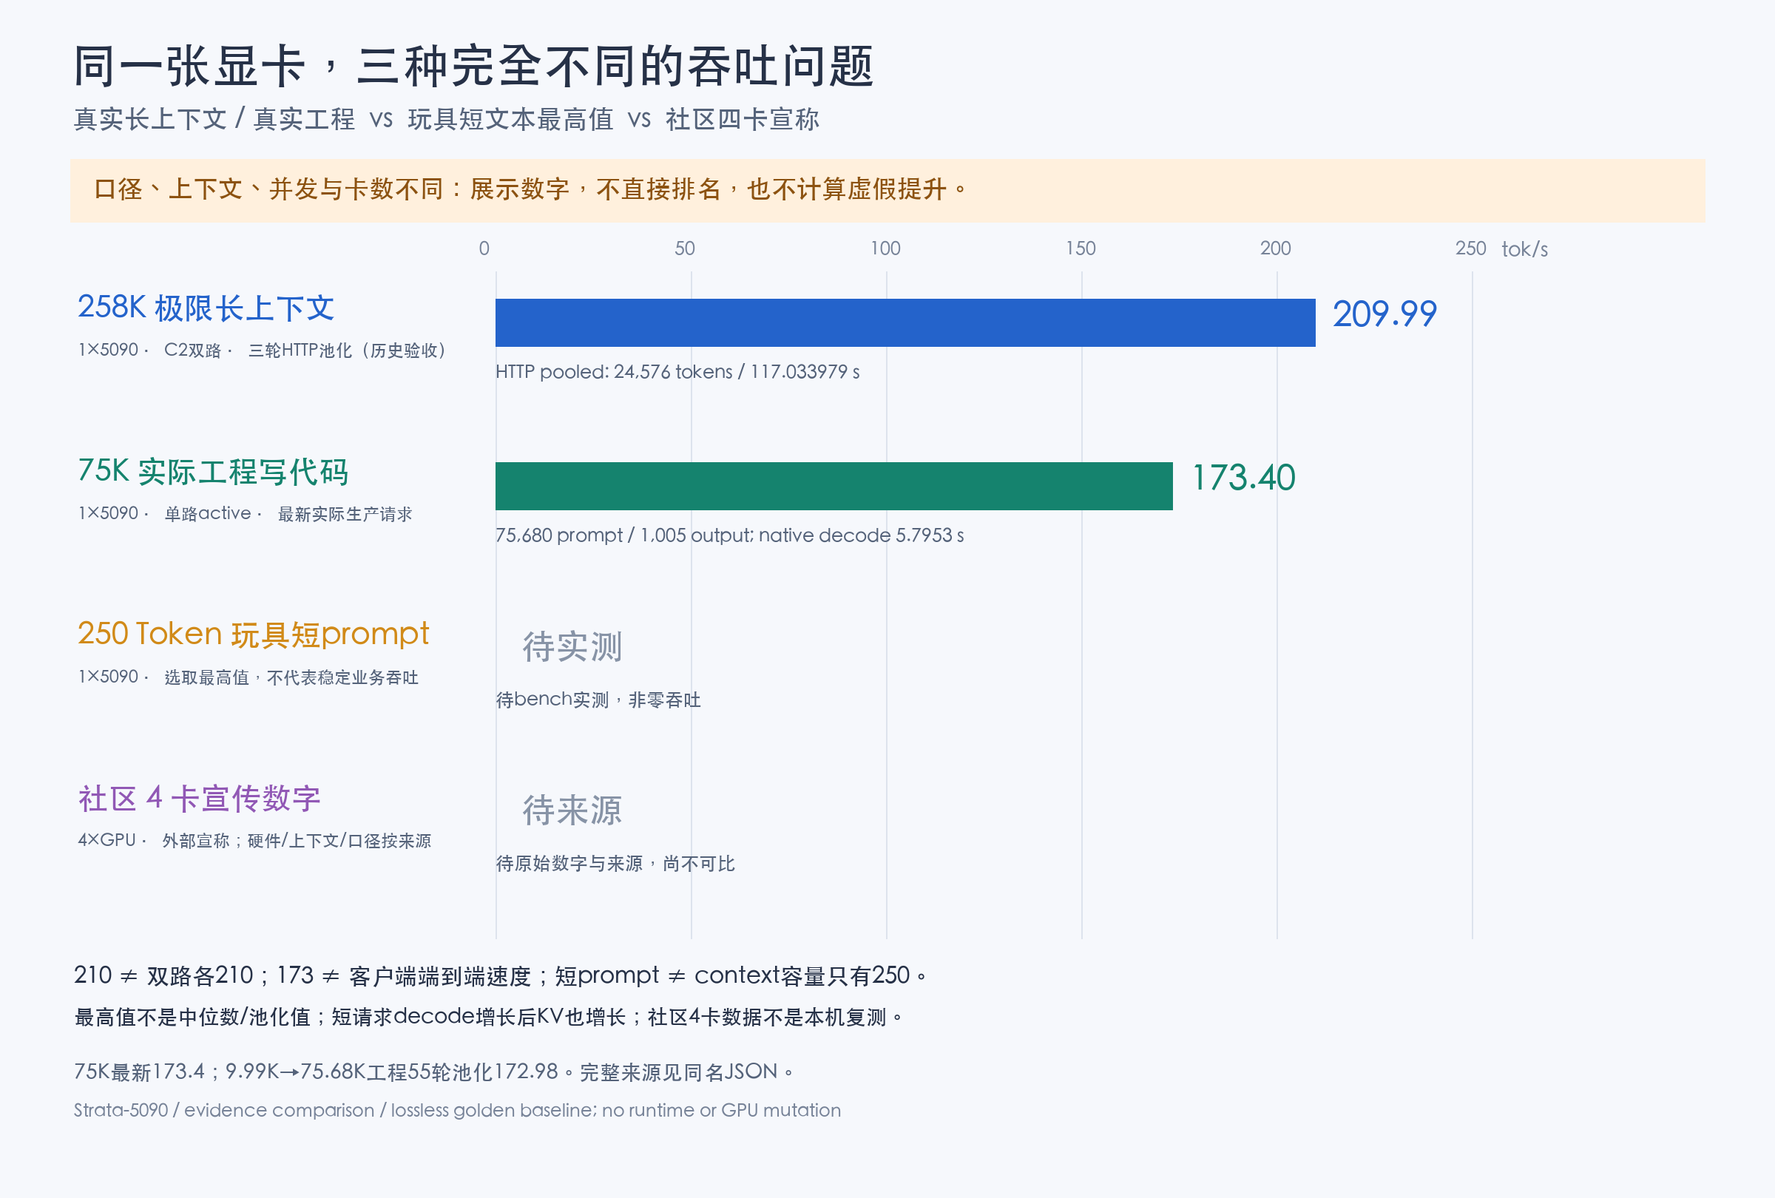
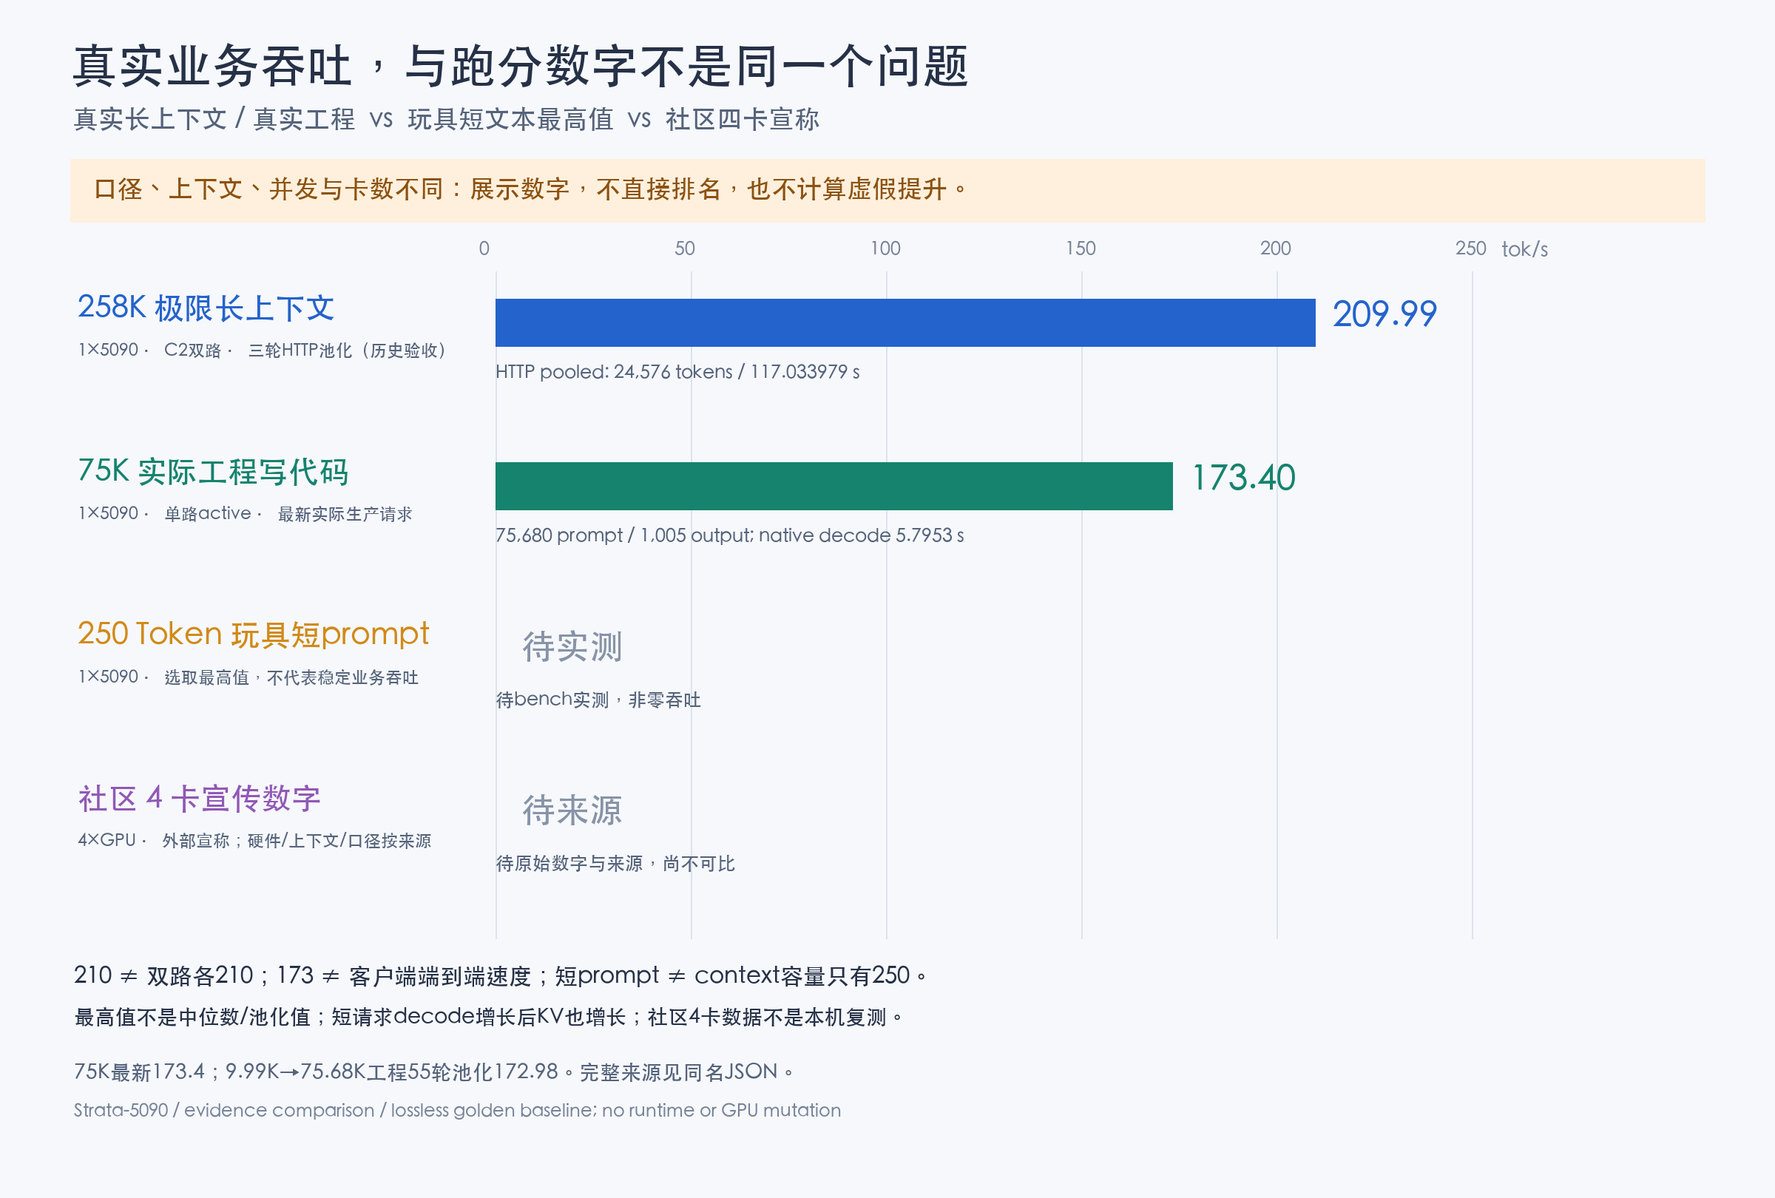
tools: render measured TUI snapshots and first reported short-context comparison

Changed region(s): [[0.0312, 0.0309, 0.5625, 0.0926]]

diff --git a/tools/strata_monitor_live.py b/tools/strata_monitor_live.py
@@ -50,6 +50,26 @@ def number(value, decimals=0):
     return "n/a" if value is None else format(value, f",.{decimals}f")
 
 
+def snapshot(data, url):
+    """Public display fields only; never archive arbitrary API extensions or request text."""
+    keys = {
+        "engine": ("model", "max_context"),
+        "live": ("state", "prompt_read", "prompt_total", "generated", "max_tokens", "tok_s", "tok_s_mean",
+                 "prefill_tok_s_mean", "parallel", "running", "queued", "admitting", "tok_s_window_s"),
+        "hardware": ("gpu_util", "gpu_power", "gpu_temp", "gpu_mem_used", "gpu_mem_total", "gpu_pcie_gen",
+                     "gpu_pcie_width", "cpu", "ram_used", "ram_total"),
+        "hardware_static": ("gpu_name", "gpu_count"),
+    }
+    result = {name: {key: data.get(name, {}).get(key) for key in fields} for name, fields in keys.items()}
+    result["live"]["slots"] = [{k: row.get(k) for k in ("slot", "state", "prompt_tokens", "generated", "elapsed_s", "tok_s")}
+                                for row in data.get("live", {}).get("slots", [])]
+    result["requests"] = [{k: row.get(k) for k in ("prompt_tokens", "reused", "output_tokens", "decode_tok_s", "finish")}
+                          for row in data.get("requests", [])[:5]]
+    result["source_endpoint"] = endpoint(url)
+    result["captured_at"] = time.strftime("%Y-%m-%dT%H:%M:%S%z")
+    return result
+
+
 def render(data, url):
     live, engine = data.get("live", {}), data.get("engine", {})
     hw, recent = data.get("hardware", {}), data.get("requests", [])
@@ -65,7 +85,8 @@ def render(data, url):
                    f"Request mean: {number(live.get('tok_s_mean'), 1)} tok/s (API)",
                    f"Prefill: {number(live.get('prefill_tok_s_mean'), 1)} tok/s (fresh input)",
                    f"Last native decode: {number(recent[0].get('decode_tok_s'), 1) if recent else 'n/a'} tok/s"]
-    lines = [f"STRATA / MONITOR LIVE {safe(url)}  |  {time.strftime('%H:%M:%S')}",
+    stamp = data.get("captured_at") or time.strftime('%H:%M:%S')
+    lines = [f"STRATA / MONITOR LIVE {safe(url)}  |  {safe(stamp)}",
              "READ-ONLY /metrics | fork viewer, NOT the unidentified screenshot CLI", "─" * 112,
              "SERVING".ljust(54) + "PERFORMANCE"]
     for left, right in zip(serving, performance):
@@ -77,7 +98,12 @@ def render(data, url):
         lines.append(f"  slot {slot.get('slot')}: {safe(slot.get('state'))} | "
                      f"prompt {number(slot.get('prompt_tokens'))} | output {number(slot.get('generated'))} | "
                      f"API mean {number(slot.get('tok_s'), 1)} tok/s")
+    static = data.get("hardware_static", {})
+    generation = hw.get("gpu_pcie_gen")
+    link = {1: 2.5, 2: 5, 3: 8, 4: 16, 5: 32, 6: 64}.get(generation)
     lines += ["─" * 112, "HARDWARE",
+              f"{number(static.get('gpu_count'))} × {safe(static.get('gpu_name', 'GPU name unavailable'))}",
+              f"PCIe link: {number(link, 1)} GT/s ×{number(hw.get('gpu_pcie_width'))} (not GDDR MT/s)",
               f"GPU busy {number(hw.get('gpu_util'), 1)}% | power {number(hw.get('gpu_power'), 1)} W | "
               f"temperature {number(hw.get('gpu_temp'), 1)} °C",
               f"VRAM {number(hw.get('gpu_mem_used', 0) / 2**30, 2) if hw.get('gpu_mem_used') is not None else 'n/a'} / "
@@ -100,7 +126,10 @@ def main(argv=None):
     parser.add_argument("--key-config", type=Path, default=Path.home() / "Projects/Strata/strata-iq3_s.json")
     parser.add_argument("--interval", type=float, default=1.0)
     parser.add_argument("--once", action="store_true", help="one frame, suitable for a log/receipt")
+    parser.add_argument("--snapshot", type=Path, help="with --once: archive public numeric display fields for TUI PNG")
     args = parser.parse_args(argv)
+    if args.snapshot and not args.once:
+        parser.error("--snapshot requires --once; one immutable frame, not an overwritten time series")
     try:
         endpoint(args.url)
         if not math.isfinite(args.interval) or args.interval < 0.2:
@@ -111,7 +140,11 @@ def main(argv=None):
     try:
         while True:
             try:
-                frame = render(fetch(args.url, key), args.url)
+                data = fetch(args.url, key)
+                frame = render(data, args.url)
+                if args.snapshot:
+                    args.snapshot.parent.mkdir(parents=True, exist_ok=True)
+                    args.snapshot.write_text(json.dumps(snapshot(data, args.url), ensure_ascii=False, indent=2)+"\n", encoding="utf-8")
             except urllib.error.HTTPError as error:
                 frame = f"MONITOR UNAVAILABLE: HTTP {error.code}; no stale LIVE data displayed"
             except (OSError, ValueError):

diff --git a/tools/render_tui_report.py b/tools/render_tui_report.py
@@ -1,0 +1,85 @@
+#!/usr/bin/env python3
+"""Render a receipt-backed terminal-style PNG; never manufacture live readings."""
+import argparse
+import hashlib
+import json
+from pathlib import Path
+
+if __package__:
+    from .strata_monitor_live import render
+    from .render_throughput_comparison import positive
+else:
+    from strata_monitor_live import render
+    from render_throughput_comparison import positive
+
+MONO_FONTS = ("/System/Library/Fonts/Menlo.ttc",
+              "/usr/share/fonts/truetype/dejavu/DejaVuSansMono.ttf",
+              "C:/Windows/Fonts/consola.ttf")
+
+
+def draw(snapshot_path, output, font_path=None, peak=None, source=None, basis=None):
+    from PIL import Image, ImageDraw, ImageFont
+    raw = Path(snapshot_path).read_bytes()
+    data = json.loads(raw)
+    if not isinstance(data, dict) or not data.get("captured_at") or not data.get("source_endpoint"):
+        raise ValueError("use an actual monitor --once --snapshot receipt with capture time/endpoint")
+    if peak is not None and (not source or not basis):
+        raise ValueError("peak needs --peak-source and --peak-basis; it is separate from the live snapshot")
+    font_path = font_path or next((p for p in MONO_FONTS if Path(p).is_file()), None)
+    if not font_path:
+        raise ValueError("provide --font pointing at a monospace TrueType font")
+    font = ImageFont.truetype(str(font_path), 27)
+    small = ImageFont.truetype(str(font_path), 21)
+    url = str(data["source_endpoint"]).removesuffix("/metrics")
+    lines = render(data, url).splitlines()
+    width, line_height, top = 2400, 39, 65
+    height = top + line_height * len(lines) + (230 if peak is not None else 145)
+    image = Image.new("RGB", (width, height), "#0d1422")
+    painter = ImageDraw.Draw(image)
+    for i, line in enumerate(lines):
+        color = "#c9d4e6"
+        if i == 0:
+            color = "#6bdded"
+        elif line.startswith(("SERVING", "BATCHING / PARALLEL", "HARDWARE", "REQUESTS", "ACTIVITY")):
+            color = "#83aaff"
+        elif line.startswith("─"):
+            color = "#31425c"
+        elif line.startswith(("READ-ONLY", "Read =", "C2 PP", "GPU busy/power")):
+            color = "#95a4b9"
+        painter.text((65, top+i*line_height), line, font=font, fill=color)
+    bottom = top + line_height * len(lines) + 20
+    if peak is not None:
+        painter.text((65, bottom), f"SEPARATE BENCHMARK PEAK: {peak:.2f} tok/s | {basis}", font=font, fill="#ffcf74")
+        painter.text((65, bottom+43), f"Source: {source}", font=small, fill="#95a4b9")
+        bottom += 86
+    digest = hashlib.sha256(raw).hexdigest()
+    painter.text((65, bottom), "RENDERED MEASURED SNAPSHOT / fork viewer, NOT an original terminal capture", font=small, fill="#95a4b9")
+    painter.text((65, bottom+34), f"Input SHA256: {digest}", font=small, fill="#95a4b9")
+    output = Path(output)
+    output.parent.mkdir(parents=True, exist_ok=True)
+    image.save(output, dpi=(200, 200))
+    output.with_suffix(".json").write_text(json.dumps({"snapshot_sha256": digest, "captured_at": data["captured_at"],
+        "source_endpoint": data["source_endpoint"], "peak_tok_s": peak, "peak_source": source,
+        "peak_basis": basis, "rendered_not_terminal_capture": True}, ensure_ascii=False, indent=2)+"\n", encoding="utf-8")
+    return width, height
+
+
+def main(argv=None):
+    parser = argparse.ArgumentParser(description=__doc__)
+    parser.add_argument("--snapshot", type=Path, required=True)
+    parser.add_argument("--output", type=Path, default=Path("docs/media/5090-tui-measured.png"))
+    parser.add_argument("--font", type=Path)
+    parser.add_argument("--peak-tok-s", type=positive)
+    parser.add_argument("--peak-source")
+    parser.add_argument("--peak-basis")
+    args = parser.parse_args(argv)
+    try:
+        size = draw(args.snapshot, args.output, args.font, args.peak_tok_s, args.peak_source, args.peak_basis)
+    except (ValueError, OSError, ImportError) as error:
+        parser.error(str(error))
+    print(f"{args.output} ({size[0]}×{size[1]})")
+    return 0
+
+
+if __name__ == "__main__":
+    raise SystemExit(main())

diff --git a/tools/test_live_visualization.py b/tools/test_live_visualization.py
@@ -14,6 +14,7 @@ import xml.etree.ElementTree as ET
 
 from tools import render_throughput_comparison as chart
 from tools import strata_monitor_live as monitor
+from tools import render_tui_report as tui
 
 
 class MonitorTests(unittest.TestCase):
@@ -75,6 +76,27 @@ class MonitorTests(unittest.TestCase):
         self.assertIn("MONITOR UNAVAILABLE", output.getvalue())
         self.assertNotIn("fixture-secret", output.getvalue())
         self.assertNotIn("LIVE", output.getvalue().replace("stale LIVE", "stale"))
+
+    def test_snapshot_is_allowlisted_and_keeps_capture_provenance(self):
+        data = {"live": {"prompt_read": 250, "prompt_total": 400, "api_key": "do-not-save",
+                         "slots": [{"slot": 1, "prompt": "private-content", "state": "reading"}]},
+                "requests": [{"output": "private-output", "output_tokens": 50}],
+                "api_key": "do-not-save", "hardware": {"gpu_pcie_gen": 5, "gpu_pcie_width": 16},
+                "hardware_static": {"gpu_count": 1, "gpu_name": "NVIDIA RTX 5090"}}
+        saved = monitor.snapshot(data, "http://localhost:8080")
+        self.assertNotIn("do-not-save", json.dumps(saved))
+        self.assertNotIn("private-", json.dumps(saved))
+        self.assertEqual(saved["live"]["prompt_total"], 400)
+        self.assertTrue(saved["captured_at"])
+        self.assertEqual(saved["source_endpoint"], "http://localhost:8080/metrics")
+        frame = monitor.render(saved, "http://localhost:8080")
+        self.assertIn("32.0 GT/s ×16 (not GDDR MT/s)", frame)
+        self.assertIn(saved["captured_at"], frame)
+
+    def test_snapshot_requires_once(self):
+        with redirect_stderr(io.StringIO()), self.assertRaises(SystemExit) as caught:
+            monitor.main(["--snapshot", "/tmp/no-write.json"])
+        self.assertEqual(caught.exception.code, 2)
 
     def test_private_key_config_and_environment(self):
         with tempfile.TemporaryDirectory() as directory:
@@ -144,6 +166,39 @@ class ChartTests(unittest.TestCase):
                 chart.main(["--short-tok-s", "300", "--svg-only", "--output", str(output)])
             self.assertEqual(caught.exception.code, 2)
             self.assertEqual(list(Path(directory).iterdir()), [])
+
+
+class TuiTests(unittest.TestCase):
+    def test_render_measured_snapshot_and_separate_peak(self):
+        from PIL import Image
+        with tempfile.TemporaryDirectory() as directory:
+            source = Path(directory) / "fixture-snapshot.json"
+            output = Path(directory) / "fixture-only.png"
+            data = monitor.snapshot({"live": {"prompt_read": 250, "prompt_total": 400},
+                                     "hardware_static": {"gpu_name": "fixture GPU", "gpu_count": 1}}, "http://localhost:8080")
+            source.write_text(json.dumps(data))
+            width, height = tui.draw(source, output, peak=300.25, source="fixture-only", basis="fixture peak")
+            with Image.open(output) as image:
+                self.assertEqual(image.size, (width, height))
+                self.assertEqual(width, 2400)
+                self.assertGreater(height, 1200)
+            meta = json.loads(output.with_suffix(".json").read_text())
+            self.assertTrue(meta["rendered_not_terminal_capture"])
+            self.assertEqual(meta["peak_tok_s"], 300.25)
+            self.assertEqual(len(meta["snapshot_sha256"]), 64)
+            self.assertEqual(json.loads(source.read_text())["live"]["prompt_total"], 400)
+
+    def test_tui_rejects_unbound_or_unsourced_input(self):
+        with tempfile.TemporaryDirectory() as directory:
+            source = Path(directory) / "fixture.json"
+            output = Path(directory) / "not-created.png"
+            source.write_text('{"live":{}}')
+            with self.assertRaises(ValueError):
+                tui.draw(source, output)
+            source.write_text(json.dumps(monitor.snapshot({"live": {}}, "http://localhost:8080")))
+            with self.assertRaises(ValueError):
+                tui.draw(source, output, peak=300)
+            self.assertFalse(output.exists())
 
 
 if __name__ == "__main__":

diff --git a/tools/render_throughput_comparison.py b/tools/render_throughput_comparison.py
@@ -70,7 +70,7 @@ def draw(items, output, font_path=None, svg_only=False):
                 fonts[size] = ImageFont.truetype(str(font_path), size)
             painter.text((x, y), value, font=fonts[size], fill=fill)
 
-    text(95, 55, "同一张显卡，三种完全不同的吞吐问题", 64)
+    text(95, 55, "真实业务吞吐，与跑分数字不是同一个问题", 64)
     text(98, 142, "真实长上下文 / 真实工程  vs  玩具短文本最高值  vs  社区四卡宣称", 35, "#55637a")
     rect(95, 215, 2210, 85, "#fff0dd")
     text(125, 237, "口径、上下文、并发与卡数不同：展示数字，不直接排名，也不计算虚假提升。", 34, "#8c5210")

diff --git a/docs/LIVE-VISUALIZATION.md b/docs/LIVE-VISUALIZATION.md
@@ -21,7 +21,7 @@ Then the complete target-local invocation is:
 python3 ~/Projects/Strata-5090-observe/tools/strata_monitor_live.py --url http://127.0.0.1:8080 --key-config ~/Projects/Strata/strata-iq3_s.json
 ```
 
-Add `--once` for one evidence frame. Standard library only. The key is read inside the target process; never put it in argv, output or Git. The monitor bypasses inherited HTTP proxies so a tailnet/loopback credential is not sent to a proxy. It shows no prompts/answers. Ctrl-C exits the **viewer only**.
+Add `--once` for one evidence frame. Add `--once --snapshot /absolute/public-frame.json` to archive only allowlisted numeric/display fields with capture time; no arbitrary API extensions or request content. Standard library only. The key is read inside the target process; never put it in argv, output or Git. The monitor bypasses inherited HTTP proxies so a tailnet/loopback credential is not sent to a proxy. It shows no prompts/answers. Ctrl-C exits the **viewer only**.
 
 Panels: SERVING, PERFORMANCE, BATCHING / PARALLEL, HARDWARE, REQUESTS, ACTIVITY. Read is displayed as exact integers, e.g. `87,000/258,000`; configured capacity262,144 is a separate row. C2 PP is global admission progress, **not** a per-slot request ID. No active prompt means `n/a`, not a fabricated zero progress bar. The recent list's `r00` is an index, not a native request identifier.
 
@@ -55,6 +55,42 @@ Unknown community data can be omitted while the measured short result is rendere
 The210 user-rounded point is historical C2 HTTP pooled209.9903 (24,576/117.033979s), not two lanes each210 or a new production measurement. The173 user-rounded point uses the latest75,680-token production request, native173.4 (1005output/5.7953s), one active slot. The broader55-round native pool172.977 includes contexts9,989→75,680 and is annotated separately; it is **not** a fixed75K pool. Approximate service-active rates164.75/160.59 and tool/idle interval35.22 are different timers and are not substituted.
 
 The short input is an actual prompt length, not configured capacity; a long output grows KV beyond its initial250tokens. A selected peak is not median/pooled speed. Community4-card values remain external claims with their own context, GPU models, timer and quality settings. Every known bar shares a linear zero-origin axis; no broken/log axis or speedup claim hides the incomparable conditions. A high short-context rate is not intrinsically fake—misrepresenting it as long-context business performance would be misleading.
+
+## Receipt-backed TUI PNG war report
+
+After bench captures a real frame (separate observer clone; the key remains target-local):
+
+```bash
+python3 ~/Projects/Strata-5090-observe/tools/strata_monitor_live.py --once \
+  --key-config ~/Projects/Strata/strata-iq3_s.json --snapshot /absolute/public-frame.json
+python3 tools/render_tui_report.py --snapshot /absolute/public-frame.json \
+  --peak-tok-s "$ACTUAL_PEAK" --peak-source "$RAW_RECEIPT" --peak-basis "$TIMER_AND_STATISTIC" \
+  --output docs/media/5090-tui-measured.png
+```
+
+The dark2400px-wide report uses the SERVING/PERFORMANCE/BATCHING/HARDWARE/REQUESTS/ACTIVITY layout, exact observed Read, GPU name/count/VRAM and measured PCIe generation/width. PCIe5 means32GT/s per lane, **not** the user-reported32Gb/s GDDR data rate. Missing hardware is n/a. Snapshot capture time/input SHA and rendered-not-terminal-capture labeling remain visible. A selected benchmark peak is a **separate** annotation, never substituted for snapshot PERFORMANCE. No hard-codedRead250/400 if actual PP differs or is unavailable. The unidentified original CLI is not claimed pixel-exact.
+
+The first reported short result is [PNG](media/throughput-comparison-c2-short-reported.png)/[SVG](media/throughput-comparison-c2-short-reported.svg):315-token C2 production,292.45 HTTP aggregate and313.0 two-second rolling peak, **forwarded by Leader from bench**, raw receipt still pending. The plotted toy point is313.0 and its basis also records292.45. Community4600 is user-relayed4-GPU claim with context/timer/hardware/quality unverified; the plot does not assert that4600 was measured on250tokens. Future higher results must retain separate receipt/timer metadata.
+
+## Safe overnight short-context matrix (source77cd/c15; no code changes)
+
+Use a target-private experimental config/loopback8081, not the strict C2 production launcher. Backup the **actually deployed** source/binary/config/ops/owned unit before stopping it under the user-authorized overnight maintenance. Do not change IQ3_XXS assets or export credentials. Text-only benchmark removesvision; C>2 also removes`--batch-slot-only`. Keep full Q4 and explicit`--batch-groups 1` on this single GPU.
+
+| Arm | Key arguments | Physical limit |
+|---|---|---|
+| C2 golden | `--batch 2 --spec 6 --batch-spec 6 --batch-rows 12 --batch-slot-only` | Full DirectSlot/adaptive/Narrow stack |
+| C4 packed12 | `--batch 4 --spec 4 --batch-spec 4 --batch-rows 12 --batch-expert-merge --batch-draft-overlap` | At4active, at most3rows/slot; widehead9..12 + QSA/Dense when actual guards hold; no DirectSlot/adaptive/Narrow-only-C2 |
+| C4 packed16 | Same, rows16 | At4active4rows/slot; Dense8+8; Q5 wide single-read9..12 **does not** cover16, so head reads8+8. NaN flag buffer is dynamicallymax_t sized. Not presumed faster. |
+| C6/C8 plain | `--batch 6` or`8`, `--spec 4 --batch-spec 1 --batch-rows 8`, no`--batch-mtp` | Native one-token/slot; batch_fast is off atC>4; do not call this wide speculative stack |
+| C6/C8 legacyMTP control | Add`--batch-mtp` to preceding arm only | Up to8rows/window: at most4slots×2rows per wave, not all8slots×2 simultaneously |
+
+Start`--max-context 2048`, actualprompt250..400 andmax_tokens1024. Atcontext1024/prompt315, max_new≤701 (`n+max_new+8≤ctx`); use512, not1024. A315-token initial input grows KV during decode; it is not constant315-context compute.
+
+Keep the five golden ENV toggles requested but report actual nativeactive/rows/dense/head/qsa dispatch rather than assuming all are active. Profiles must be **absent**, NaN guard1, keyed prefetch0. `TAIL_SKIP=7` is an authorized **quality-tradeoff** miss-tail control (zero-basedrank≥7, at mostlast3missing experts), not an excuse to bypassnonfinite/error detection. It may do little if short-context expertcache hit is near100%.
+
+First batch-pcie-frac0/pool15; then independent0.75/pool7 sweep. `batch-pcie-frac` overrides globalpcie in fast mode; plain C6/C8 uses globalpcie, so record which one is effective. Sweep spec/probability/suffix only with effective-path receipts; repetition or lookup favorable inputs are disclosed, not marketed as general coding. No four-digit throughput promise. Rawroute/skip/token counts, actualactive, HTTP pool versusrolling peak, contextgrowth, timers and minVRAM are retained.
+
+Morning restoration is bench-owned and restores the saved **complete actual production release** after experimentPID/cgroup/GPU clears. Do not blindly start oldofficialC1, force unacceptedvision, or mix77source withc15binary. Originalruntime has hardC2DirectSlot andC≤4packed boundaries; removing them needs another isolated tested implementation, not just parameters.
 
 ## Verification / handoff
 
